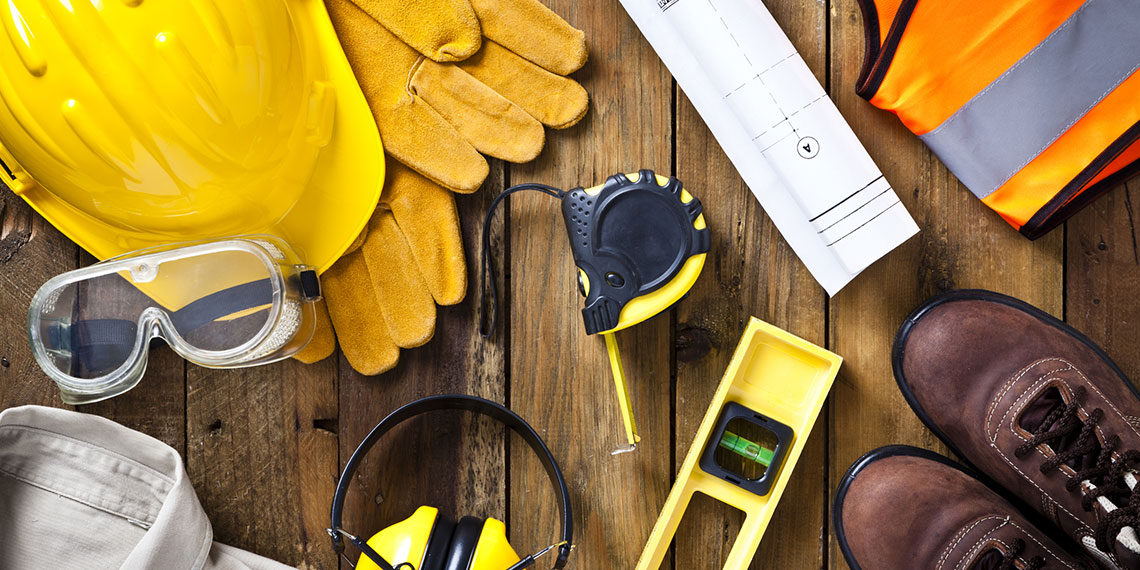
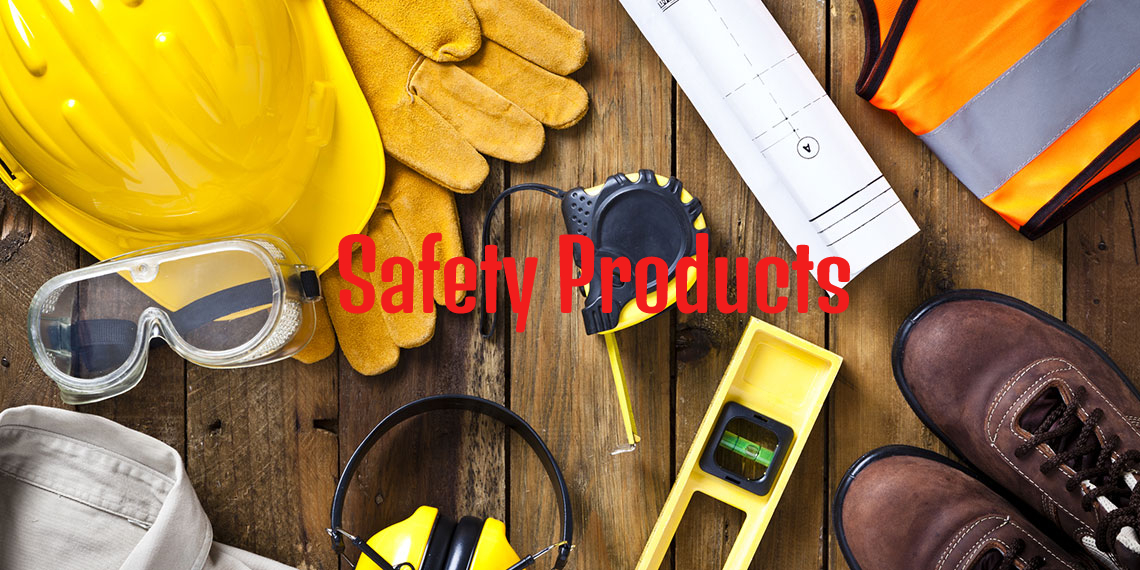
vs

Changed region(s): [[0.2763, 0.3877, 0.7675, 0.5965]]

diff --git a/home.css b/home.css
@@ -50,21 +50,11 @@ body {
 	background-color: rgb(246, 246, 246);
 	background-size: 200%;
 }
+
 img{
          width: 100%;
-        padding: 0px;
-      
-      
-  }
-.title{
-    height:60%;
-    width: auto;
-    font-weight: bolder;
-    text-align: center;
-    font-size: 200%;
-    color: rgb(241, 38, 38);
-
-}
+        padding: 0px;     
+    }
 .quotes{
     text-align: center;
     letter-spacing: 10px;

diff --git a/home.html b/home.html
@@ -17,13 +17,10 @@
             <a href="Contact.html">Contact</a>
         </li>
     </ul>   
-    </section>
+</section>
 
 </header>
-<body >
-    <div class="title">
-    <h1>Safety products</h1>
-        </div>
+<body>
         <img src="fond.jpg" alt="fond">
     <div class="quotes">
     <h2>Safety come first</h2>

diff --git a/produits.html b/produits.html
@@ -6,6 +6,7 @@
 </head>
 <header>
     <section class="menu">
+
          <ul class="menu-list">
              <li data-text="home">
                 <a href="home.html">Home</a>
@@ -18,7 +19,7 @@
             </li>
         </ul>   
         </section>
-    
+
     </header>
 <body>
     <div class="responsive">
